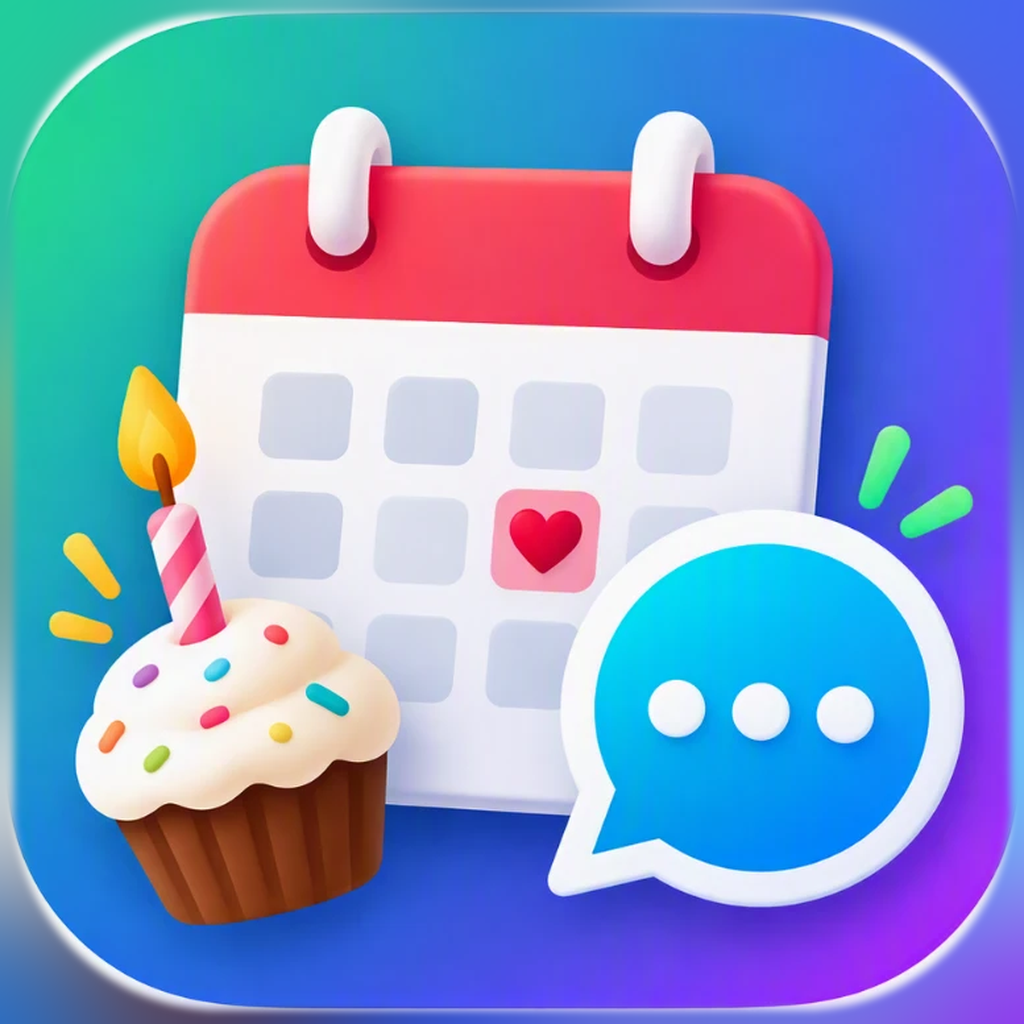
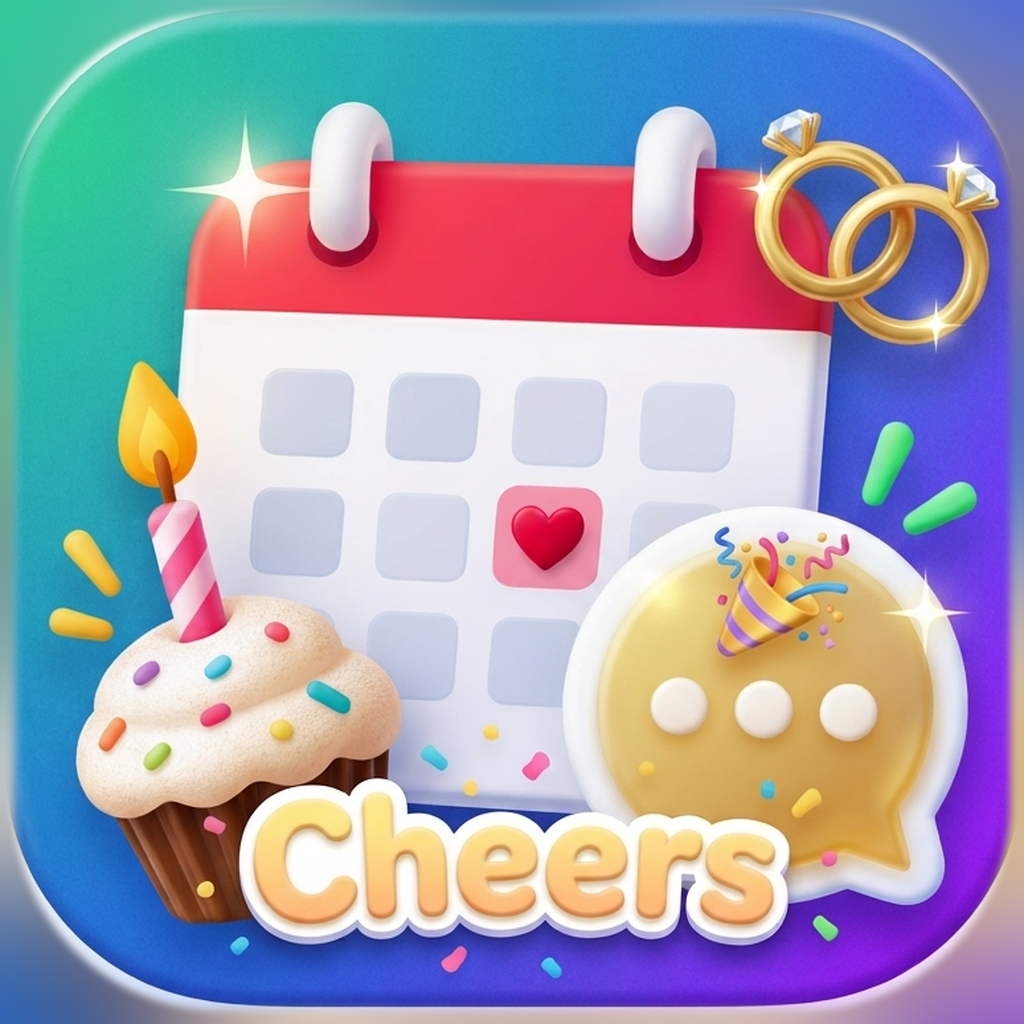
Icono nuevo de Cheers (v1.0.2)

diff --git a/sw.js b/sw.js
@@ -1,7 +1,7 @@
 // Mi Calendario — service worker: "red primero". Con internet siempre carga la versión publicada
 // (así no se queda una versión vieja en el móvil); sin internet usa la última copia guardada.
 // Los datos del usuario están en localStorage: este archivo nunca los toca.
-const CACHE = 'micalendario-1.0.1';
+const CACHE = 'micalendario-1.0.2';
 const BASICOS = ['./', './index.html', './comun.js', './manifest.json', './privacidad.html', './icon-192.png', './icon-512.png', './icon-maskable-512.png'];
 const HOSTS = [self.location.origin, 'https://fonts.googleapis.com', 'https://fonts.gstatic.com'];
 

diff --git a/index.html b/index.html
@@ -550,7 +550,7 @@ button { font-family: inherit; -webkit-tap-highlight-color: transparent; }
 <script>
 // Cheers (antes «Mi Calendario») — versión pública (Google Play). Sale de la app de la familia (Familia\Calendario)
 // sin datos personales: todo se guarda solo en este teléfono (localStorage) y se puede guardar una copia.
-const APP_VERSION = '1.0.1';
+const APP_VERSION = '1.0.2';
 const TIPOS = CalComun.TIPOS;
 let FEST_COLOR = '#9b2226';
 const COL_BASE = { ...Object.fromEntries(Object.entries(TIPOS).map(([k, t]) => [k, t.color])), festivo: FEST_COLOR, estaciones: CalComun.EST_COLOR };
